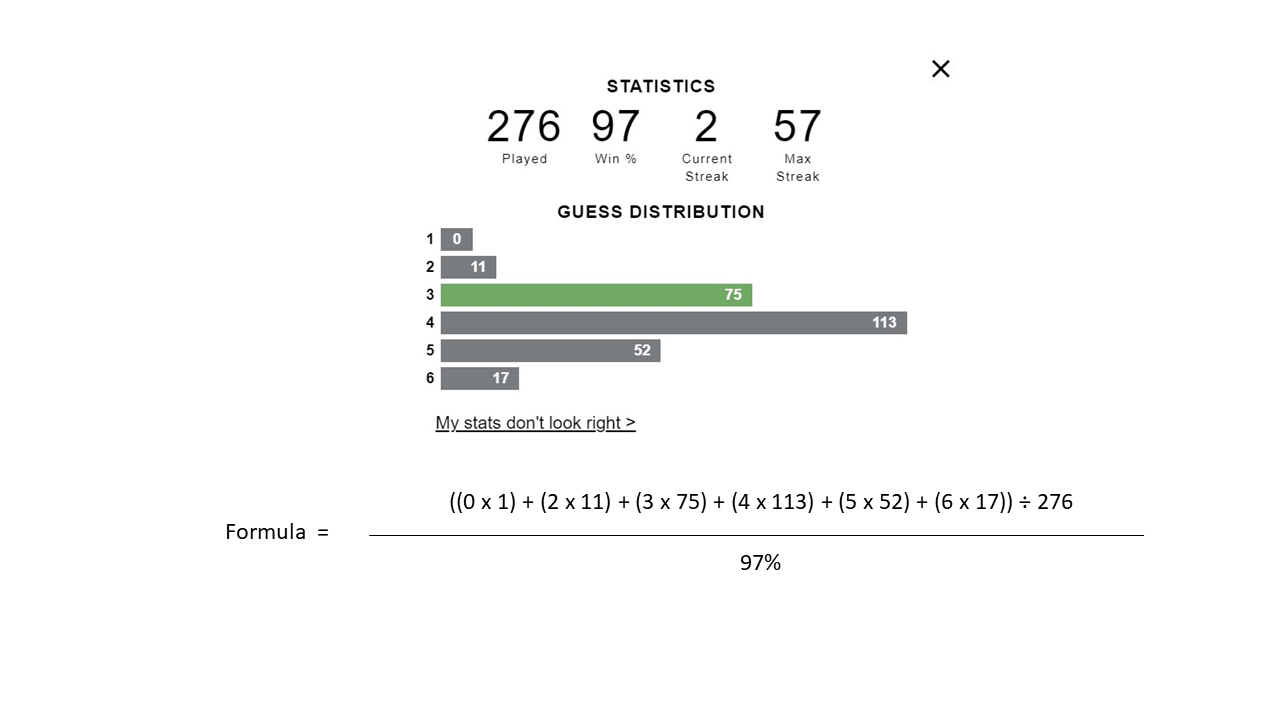
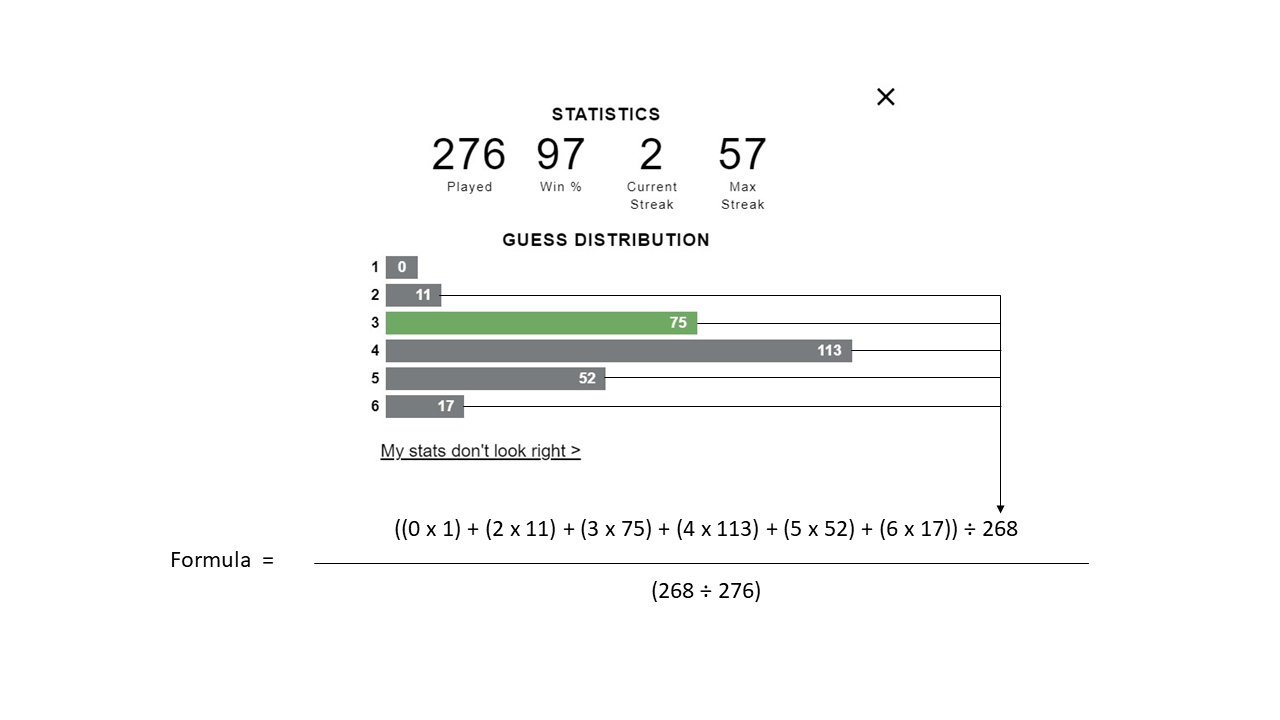
final changes

diff --git a/templates/instructions.html b/templates/instructions.html
@@ -3,19 +3,26 @@
 {% block content %}
 <br>
 <div>
-    <p>1) Hightlight & copy your Wordle statistics</p>
-<img src="/static/step_2.png" class="img-fluid" rel="instructions">
+    <p>1) Open NYT Wordle website, hightlight & copy your Wordle statistics</p>
+<img src="/static/word_calc_step2.png" class="img-fluid" rel="instructions">
 <br>
 <br>
-    <p>2) Open Wordle Score Calculator webpage and paste into text box</p>
-<img src="/static/step_3.png" class="img-fluid" rel="instructions">
+    <p>2) Open Wordle Score Calculator webpage and select Wordle</p>
+<img src="/static/word_calc_step1.png" class="img-fluid" rel="instructions">
+<br>
+<br>
+<br>
+    <p>2) Paste your copied Wordle statistics into text box</p>
+<img src="/static/word_calc_step3.png" class="img-fluid" rel="instructions">
 <br>
 <br>
     <p>3) Click on "Gimme my score!" button</p>
-<img src="/static/step_4.png" class="img-fluid" rel="instructions">
+<img src="/static/word_calc_step4b.png" class="img-fluid" rel="instructions">
 <br>
 <br>
     <p>Done! Congratulations! You've successfully obtained your score!</p>
-<img src="/static/step_5.png" class="img-fluid" rel="instructions">
+<img src="/static/word_calc_step5.png" class="img-fluid" rel="instructions">
 </div>
+<br/>
+  <h4 align="center">🟩🟩🟩🟩🟩</h4>
 {% endblock %}

diff --git a/templates/wordle_calc.html b/templates/wordle_calc.html
@@ -5,16 +5,18 @@
 <br/>
 <br/>
 <form action="/" method ="POST">
-    <h3 align="center">Game Score Calculator</h3>
+    <h3 align="center">🟩🟨🟩🟨🟩</h3>
+    <h3 align="center">Score Calculator</h3>
+    <h3 align="center">🟩🟩🟩🟩🟩</h3>
     <br/>
     <div class="form-group">
-        <select class="form-control mx-auto w-25" id="game"  name="game" placeholder="Please select">
+        <select class="form-control mx-auto w-auto" id="game"  name="game">
             <option value="" selected disabled>Please select</option>
             <option value="wordle">Wordle</option>
             <option value="katapat">Katapat</option>
         </select>
         <label for="stats"></label>
-        <input type="text"  autofocus class="form-control mx-auto w-25" id="stats" name="stats" placeholder="Paste game stats here" autofocus=>
+        <input type="text"  autofocus class="form-control mx-auto w-auto" id="stats" name="stats" placeholder="Paste game stats here" autofocus=>
     </div>
     <br/>
     <div class="d-grid gap-2 d-md-flex justify-content-md-center" align="center">

diff --git a/templates/links.html b/templates/links.html
@@ -1,7 +1,22 @@
 {% extends "base.html" %}
 {% block title %} Wordle Score Calculator {% endblock %}
 {% block content %}
-
-<p>TBD</p>
+<br/>
+<h3 align="center">Just some links</h3>
+<br/>
+<div class="list-group mx-auto w-75" align="center">
+    <a class="btn btn-success btn-md" href="https://www.nytimes.com/games/wordle/index.html" role="button">Play Wordle now!</a>
+    <br/>
+    <a class="btn btn-success" href="https://www.projecteugene.com/katapat.html" role="button">Play Katapat now!</a>
+    <br/>
+    <a class="btn btn-success" href="https://github.com/dn288/wordle-calc" role="button">Github repository for this website</a>
+    <br/>
+    <a class="btn btn-success" href="https://word.tips/wordle-wizards/" role="button">Statistics for Wordle nerds</a>
+    <br/>
+    <a class="btn btn-success" href="https://www.buymeacoffee.com/dn288" role="button">Feel free to buy me a coffee if you enjoy the site!😊☕</a>
+    <br/>
+  </div>
+  <br/>
+  <h4 align="center">🟩🟩🟩🟩🟩</h4>
 
 {% endblock %}

diff --git a/app.py b/app.py
@@ -13,32 +13,33 @@ def wordle_calc():
     if request.method == "POST":
         game = request.form.get("game")
         stats = request.form.get("stats")
+        if not game:
+            flash("ERROR - Please select game!", category="err")
+            return render_template("wordle_calc.html")
         if game == "wordle":
             if not stats:
-                flash("ERROR - Please enter stats!", category="err")
+                flash("ERROR - Please choose enter stats!", category="err")
                 return render_template("wordle_calc.html")
             try:
                 x = re.search(r"^(STATISTICS\s([0-9][0-9]?[0-9]?)\sPlayed\s([0-9][0-9]?[0-9]?)\sWin\s%\s([0-9][0-9]?[0-9]?)\sCurrent\sStreak\s([0-9][0-9]?[0-9]?)\sMax\sStreak\sGUESS\sDISTRIBUTION\s1\s([0-9][0-9]?)\s2\s([0-9][0-9]?[0-9]?)\s3\s([0-9][0-9]?[0-9]?)\s4\s([0-9][0-9]?[0-9]?)\s5\s([0-9][0-9]?[0-9]?)\s6\s([0-9][0-9]?[0-9]?)\s)", stats)
                 if x:
-                    total_games = int(x.group(2))
-                    percentage = int(x.group(3))
-                    cur_streak = int(x.group(4))
-                    max_streak = int(x.group(5))
+                    total_played = int(x.group(2))
                     ones = int(x.group(6))
                     twos = int(x.group(7))
                     threes = int(x.group(8))
                     fours = int(x.group(9))
                     fives = int(x.group(10))
                     sixes = int(x.group(11))
+                    total_solved = ones + twos + threes + fours + fives +sixes
 
-                    score = ((ones*1 + twos*2 + threes*3 + fours*4 + fives*5 + sixes*6)/total_games)/(percentage/100)
+                    score = ((ones*1 + twos*2 + threes*3 + fours*4 + fives*5 + sixes*6)/total_solved)/(total_solved/total_played)
                     flash("Success!", category="success")
-                    return render_template("wordle_calc.html", score=f"Your Wordle score is {score:.3f}")
+                    return render_template("wordle_calc.html", score=f"Your Wordle score is {score:.3f} 🥇")
                 else:
                     flash("ERROR - Stats format not valid!", category="err")
                     return render_template("wordle_calc.html")
             except:
-                flash("ERROR - Stats format not valid!", category="err")
+                flash("ERROR - Stats format not valid! Please check instructions.", category="err")
                 return render_template("wordle_calc.html")
         elif game == "katapat":
             stats = request.form.get("stats")
@@ -46,27 +47,25 @@ def wordle_calc():
                 flash("ERROR - Please enter stats!", category="err")
                 return render_template("wordle_calc.html")
             try:
-                x = re.search(r"^(STATISTIK\s([0-9][0-9]?[0-9]?)\sMain\s([0-9][0-9]?[0-9]?)\s%\sMenang\s([0-9][0-9]?[0-9]?)\sKombo\sSemasa\s([0-9][0-9]?[0-9]?)\sKombo\sMaksima\sTABURAN\sTEKAAN\s1\s([0-9][0-9]?)\s2\s([0-9][0-9]?[0-9]?)\s3\s([0-9][0-9]?[0-9]?)\s4\s([0-9][0-9]?[0-9]?)\s5\s([0-9][0-9]?[0-9]?)\s6\s([0-9][0-9]?[0-9]?))", stats)
+                x = re.search(r"^(STATISTIK\s\s([0-9][0-9]?[0-9]?)\sMain\s([0-9][0-9]?[0-9]?)\s%\sMenang\s([0-9][0-9]?[0-9]?)\sKombo\sSemasa\s([0-9][0-9]?[0-9]?)\sKombo\sMaksima\sTABURAN\sTEKAAN\s\s1\s([0-9][0-9]?)\s2\s([0-9][0-9]?[0-9]?)\s3\s([0-9][0-9]?[0-9]?)\s4\s([0-9][0-9]?[0-9]?)\s5\s([0-9][0-9]?[0-9]?)\s6\s([0-9][0-9]?[0-9]?))", stats)
                 if x:
                     total_games = int(x.group(2))
-                    percentage = int(x.group(3))
-                    cur_streak = int(x.group(4))
-                    max_streak = int(x.group(5))
                     ones = int(x.group(6))
                     twos = int(x.group(7))
                     threes = int(x.group(8))
                     fours = int(x.group(9))
                     fives = int(x.group(10))
                     sixes = int(x.group(11))
+                    total_solved = ones + twos + threes + fours + fives + sixes
 
-                    score = ((ones*1 + twos*2 + threes*3 + fours*4 + fives*5 + sixes*6)/total_games)/(percentage/100)
+                    score = ((ones*1 + twos*2 + threes*3 + fours*4 + fives*5 + sixes*6)/total_solved)/(total_solved/total_games)
                     flash("Success!", category="success")
-                    return render_template("wordle_calc.html", score=f"Your Katapat score is {score:.3f}")
+                    return render_template("wordle_calc.html", score=f"Your Katapat score is {score:.3f} 🥇")
                 else:
                     flash("ERROR - Stats format not valid!", category="err")
                     return render_template("wordle_calc.html")
             except:
-                flash("ERROR - Stats format not valid!", category="err")
+                flash("ERROR - Stats format not valid! Please check instructions.", category="err")
                 return render_template("wordle_calc.html")
     else:
         return render_template("wordle_calc.html")
